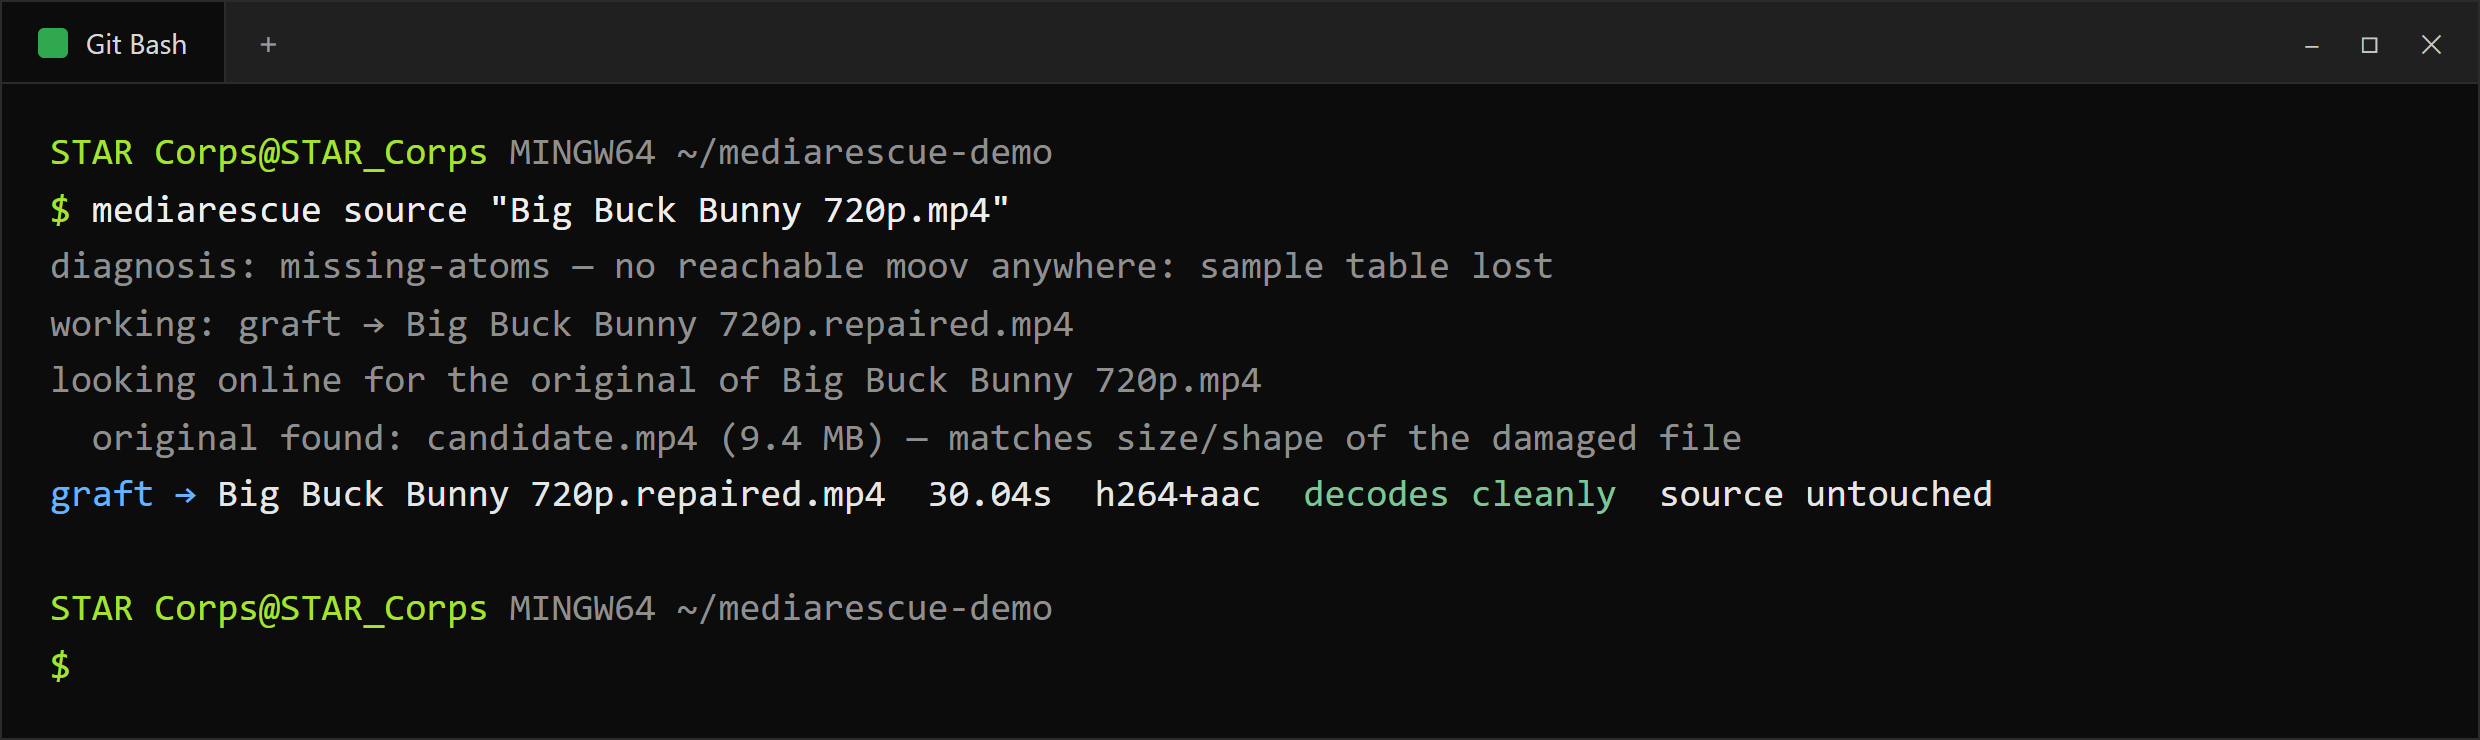
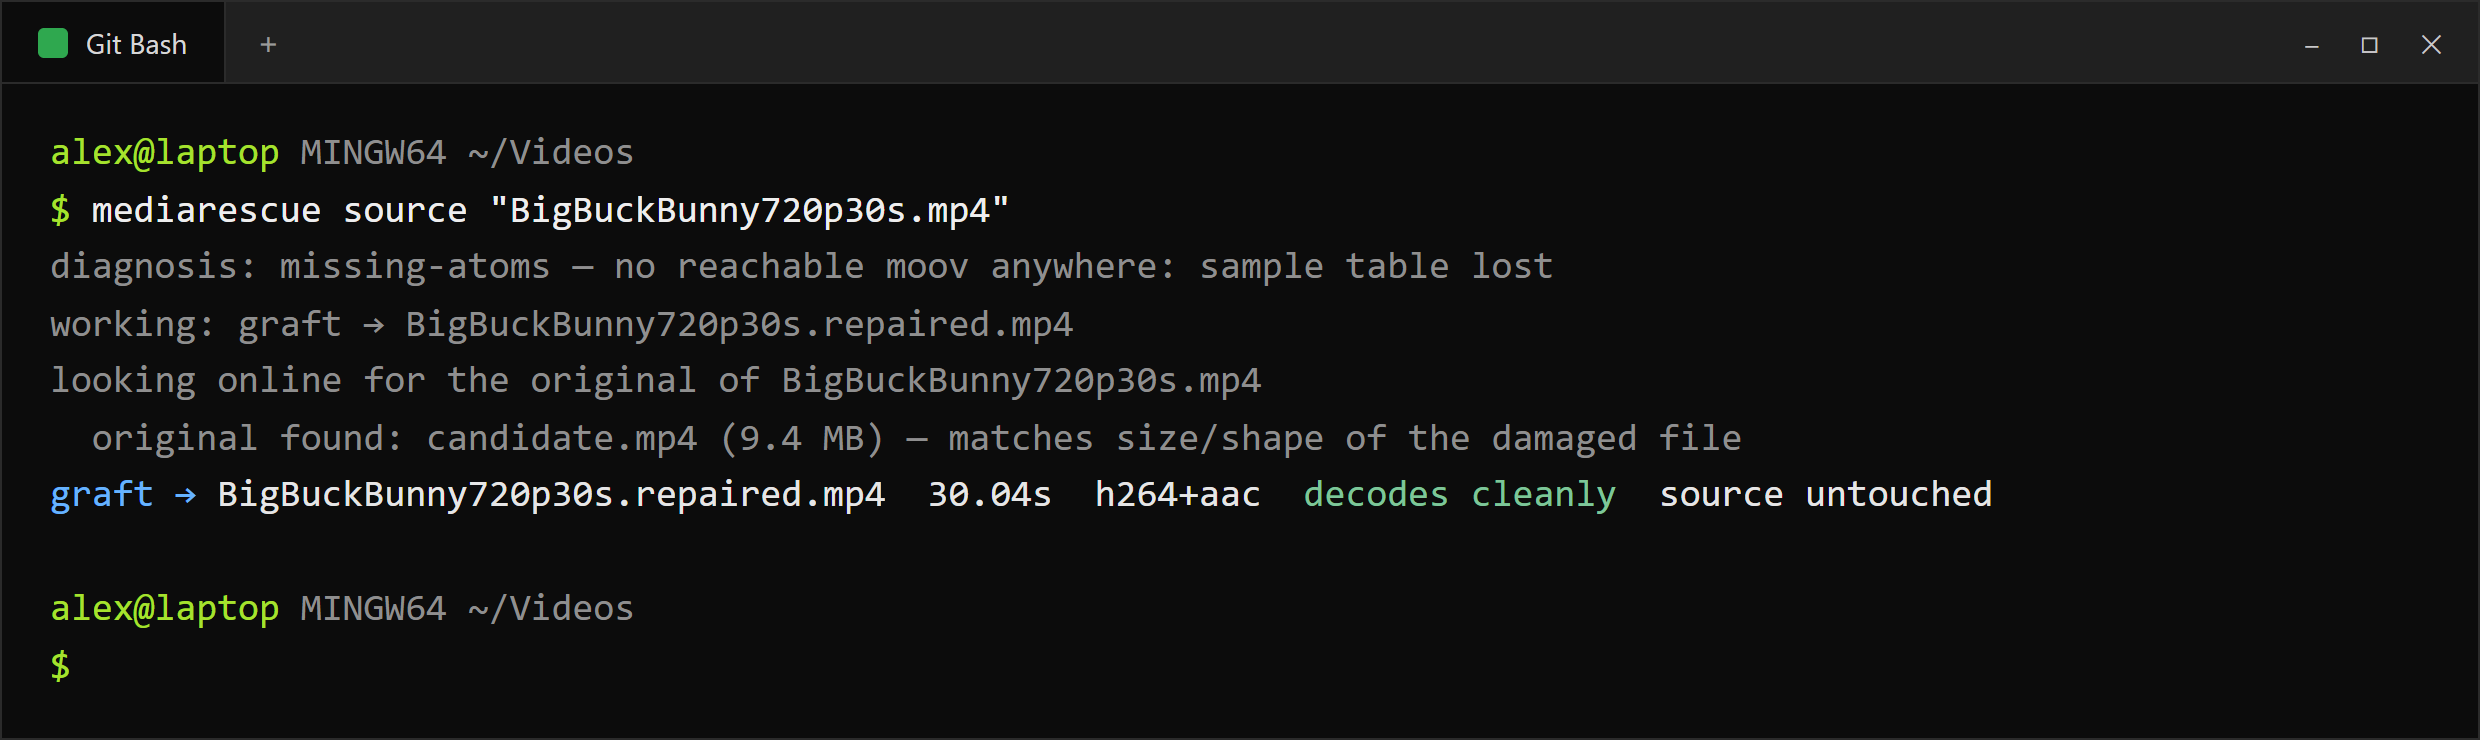
0.7.2: judge a candidate by decoding it, and drop junk links instead of dying
A graft that produced a file with 1041 decode errors still ended the search, because the loop
tested attempt['ok'] -- 'a file came out' rather than 'the file plays'. Every candidate is decoded
to the end now, and the whole file is verified once, not twice.

source.extract_media_links called urlsplit on every link it found; one page carried a href of the
form //[www.terabox.com/... and the run died with ValueError: Invalid IPv6 URL. Malformed links are
skipped.

The README screenshot now shows a placeholder prompt (alex@laptop ~/Videos) and the disclosure says
the prompt is blanked; program output is unchanged.

diff --git a/src/mediarescue/cli.py b/src/mediarescue/cli.py
@@ -178,6 +178,15 @@ def _repair_with_reference(src: Path, ref: Path, out: Path, args, strategy: str)
             "reason": r.reason}
 
 
+def _plays_without_errors(path: Path) -> bool:
+    """Decode the whole file to nowhere: the only proof a borrowed index really fits."""
+    from .ffmpeg import decode_check, probe
+    if not probe(path).get("ok"):
+        return False
+    clean, _lines, _first = decode_check(path)
+    return clean
+
+
 def _online_references(src: Path, args):
     """Yield downloaded references for `src`, most promising first.
 
@@ -327,12 +336,14 @@ def _repair(src: Path, out: Path, args, d) -> dict:
             refused: list[str] = []
             for ref in _online_references(src, args):
                 attempt = _repair_with_reference(src, ref, out, args, strategy)
-                if attempt.get("ok"):
+                if attempt.get("ok") and _plays_without_errors(Path(attempt["output"])):
                     attempt.setdefault("notes", []).append(f"original found online: {ref.name}")
                     attempt["reference"] = str(ref)
+                    attempt["verify"] = {"ok": True, "decode_errors": 0}
                     result = attempt
                     break
-                refused.append(f"{ref.name} did not decode ({attempt.get('reason') or 'garbled'})")
+                refused.append(f"{ref.name} did not play cleanly "
+                               f"({attempt.get('reason') or 'the graft decoded into noise'})")
                 out.unlink(missing_ok=True)
             if result is None:
                 result = _carve_or_explain(src, out, args.fps,
@@ -366,7 +377,7 @@ def _repair(src: Path, out: Path, args, d) -> dict:
 
     if result.get("ok"):
         result["probe"] = probe(Path(result["output"]))
-        if not args.no_verify:
+        if not args.no_verify and "verify" not in result:
             from .ffmpeg import decode_check
             clean, lines, first = decode_check(Path(result["output"]))
             result["verify"] = {"ok": clean, "decode_errors": lines}

diff --git a/src/mediarescue/source.py b/src/mediarescue/source.py
@@ -271,9 +271,17 @@ JUNK_RESULT = re.compile(r"\.(?:css|js|png|jpe?g|gif|svg|ico|woff2?|json|xml)(?:
 ENGINE_HOSTS = ("bing.com", "google.", "duckduckgo.com", "microsoft.com", "yahoo.com")
 
 
+def _host(url: str) -> str:
+    """Pages carry junk like `//[www.terabox.com` that urlsplit refuses outright; skip those."""
+    try:
+        return urllib.parse.urlsplit(url).netloc.lower()
+    except ValueError:
+        return ""
+
+
 def usable_result(url: str) -> bool:
     """Search engines return their own stylesheets and ad redirects; none of those is a source."""
-    host = urllib.parse.urlsplit(url).netloc.lower()
+    host = _host(url)
     if not host or any(host.endswith(h) or h in host for h in ENGINE_HOSTS):
         return False
     return not JUNK_RESULT.search(urllib.parse.urlsplit(url).path or url)
@@ -312,7 +320,9 @@ def extract_media_links(html: str, base: str = "") -> list[str]:
         found.append(_absolute(match.group(1), base))
     for match in SHARE_LINK.finditer(html):
         url = match.group(0).rstrip('",)')
-        host = urllib.parse.urlsplit(url).netloc.lower()
+        host = _host(url)
+        if not host:
+            continue
         if any(h in host for h in fetch.TERABOX_HOSTS) or any(
                 h in host for h in ("mediafire.com", "pixeldrain.com", "gofile.io",
                                     "drive.google.com", "dropbox.com", "1drv.ms")):

diff --git a/tests/test_source.py b/tests/test_source.py
@@ -165,6 +165,7 @@ def test_a_download_that_does_not_decode_gives_way_to_the_next_candidate(tmp_pat
         return {"ok": True, "output": str(out_path)}
 
     monkeypatch.setattr(cli, "_repair_with_reference", fake_repair)
+    monkeypatch.setattr(cli, "_plays_without_errors", lambda path: len(tried) == 2)
     monkeypatch.setattr(cli, "_online_references", lambda path, args: iter([first, second]))
     monkeypatch.setattr("mediarescue.reference.find_reference", lambda path, **kw: None)
 
@@ -175,3 +176,11 @@ def test_a_download_that_does_not_decode_gives_way_to_the_next_candidate(tmp_pat
     assert result["ok"] is True
     assert tried == ["candidate-1.mp4", "candidate-2.mp4"]
     assert any("candidate-2.mp4" in note for note in result.get("notes", []))
+
+
+def test_a_junk_link_on_a_page_does_not_stop_the_search():
+    """Real pages carry broken hrefs like //[host; urlsplit refuses them outright."""
+    html = ('<a href="//[www.terabox.com/s/1abc">x</a> '
+            '<a href="https://www.terabox.com/s/1real">real</a>')
+    found = source.extract_media_links(html)
+    assert "https://www.terabox.com/s/1real" in found

diff --git a/src/mediarescue/__init__.py b/src/mediarescue/__init__.py
@@ -2,5 +2,5 @@
 from .diagnose import diagnose
 from .report import Diagnosis, Severity
 
-__version__ = "0.7.1"
+__version__ = "0.7.2"
 __all__ = ["diagnose", "Diagnosis", "Severity", "__version__"]

diff --git a/README.md b/README.md
@@ -260,7 +260,7 @@ The twin of a damaged download often still lives in a free cloud drive. `--refer
 the run ends:
 
 ```bash
-mediarescue fix "D:/file-rusak/bad-block" --out-dir "D:/file-rusak/recovered" \
+mediarescue fix "D:/broken-file" --out-dir "D:/fixed" \
   --reference "https://terabox.com/s/1AbCdEfGhIjKl"
 ```
 
@@ -292,13 +292,14 @@ Most damaged downloads have an intact twin somewhere on the internet — the sam
 host or on the site it came from. Instead of hunting for it yourself:
 
 ```bash
-mediarescue source "D:/file-rusak/bad-block/clip.mp4"
+mediarescue source "D:/broken-file/clip.mp4"
 ```
 
 ![mediarescue source: the file is diagnosed, the original is found online, the repair decodes cleanly](docs/source.png)
 
-That screenshot is the unedited output of a real run (a 30-second Big Buck Bunny clip whose `moov`
-box was cut off); only the window frame around it is drawn for the README.
+That screenshot is the output of a real run (a 30-second Big Buck Bunny clip whose `moov`
+box was cut off); the window frame around it is drawn for the README, and the shell prompt — user
+name, machine name and folder — is blanked. The lines the program prints are untouched.
 
 The command reads the filename, strips the download-site noise (`[1080p]`, `@channel`, `- SOMESITE`),
 searches the web for the original, downloads the best match into a temporary folder, repairs with
@@ -317,7 +318,7 @@ For a whole folder, add the flag to the normal batch command. Only the files tha
 trigger a search:
 
 ```bash
-mediarescue fix "D:/file-rusak/bad-block" --out-dir "D:/file-rusak/recovered" --find-source
+mediarescue fix "D:/broken-file" --out-dir "D:/fixed" --find-source
 ```
 
 What it will and will not do:

diff --git a/CHANGELOG.md b/CHANGELOG.md
@@ -1,5 +1,17 @@
 # Changelog
 
+## 0.7.2
+
+- **A downloaded candidate that grafts into noise no longer counts as the answer.** 0.7.1 tried the
+  next candidate when the graft *failed*; a graft that produced a file full of decode errors still
+  ended the search, because "it made a file" was mistaken for "it made a playable file". Every
+  candidate is now decoded to the end before it is accepted or dropped.
+- **One broken link on a page no longer kills the search.** Pages carry junk hrefs such as
+  `//[www.terabox.com/...` that `urlsplit` refuses outright; the whole run used to die with
+  `ValueError: Invalid IPv6 URL`. Such a link is now skipped.
+- **The README shows a placeholder shell prompt** (`alex@laptop`, `~/Videos`) instead of paths from
+  the machine the screenshot was taken on, and the disclosure says so.
+
 ## 0.7.1
 
 Two gaps that made a repair give up while a usable reference was still within reach.
